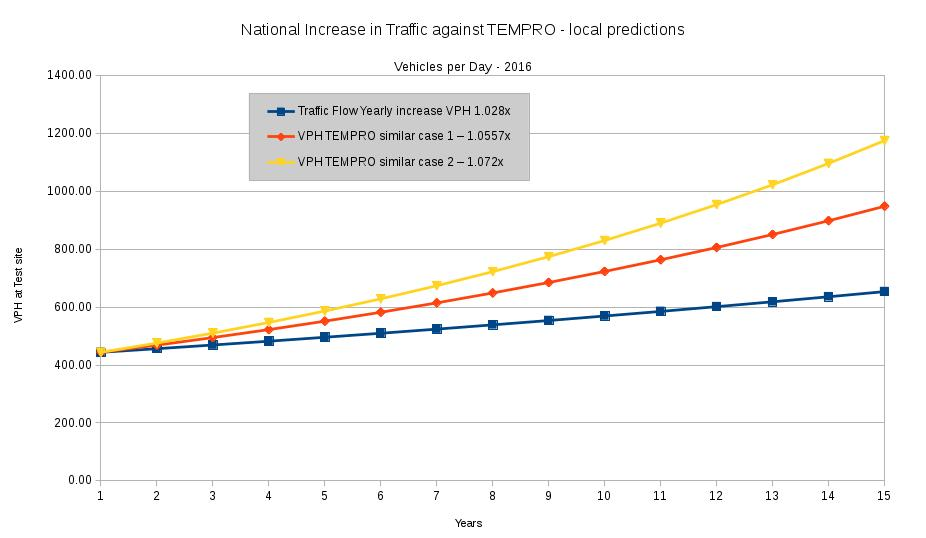
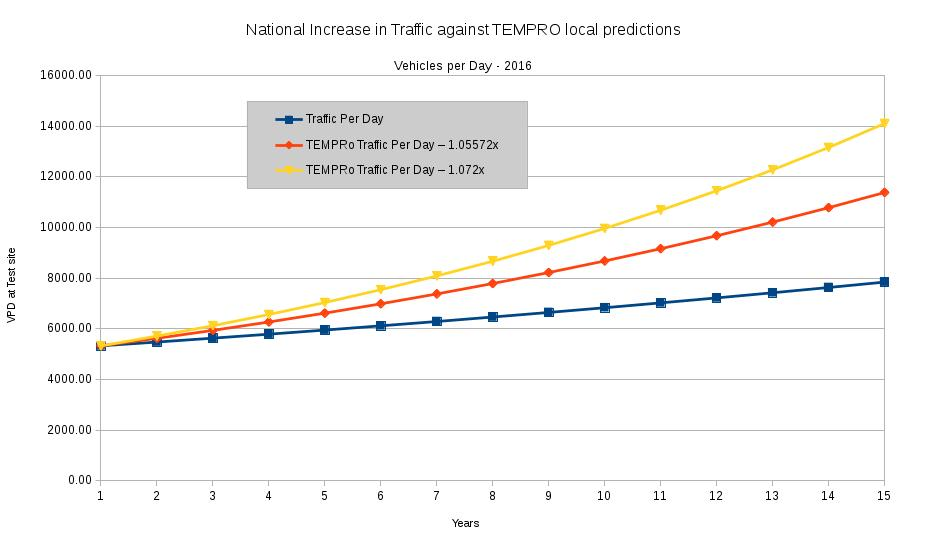
update chart for predicted future levels / day

diff --git a/README.md b/README.md
@@ -97,7 +97,7 @@ The chart shows the Growth in Traffic at the test site using TEMPRO "calibration
 
 ![alt tag](charts/TrafficSurvey-TEMPROPredictedIncreasePerHour2016.jpg)  
 
-**Traffic Flow Rates - Predicted increase from 2016 - Flow per Hour**  
+**Traffic Flow Rates - Predicted increase from 2016 - Flow per Day**  
 
 ![alt tag](charts/TrafficSurvey-TEMPROPredictedIncreasePerDay2016.jpg)  
 
